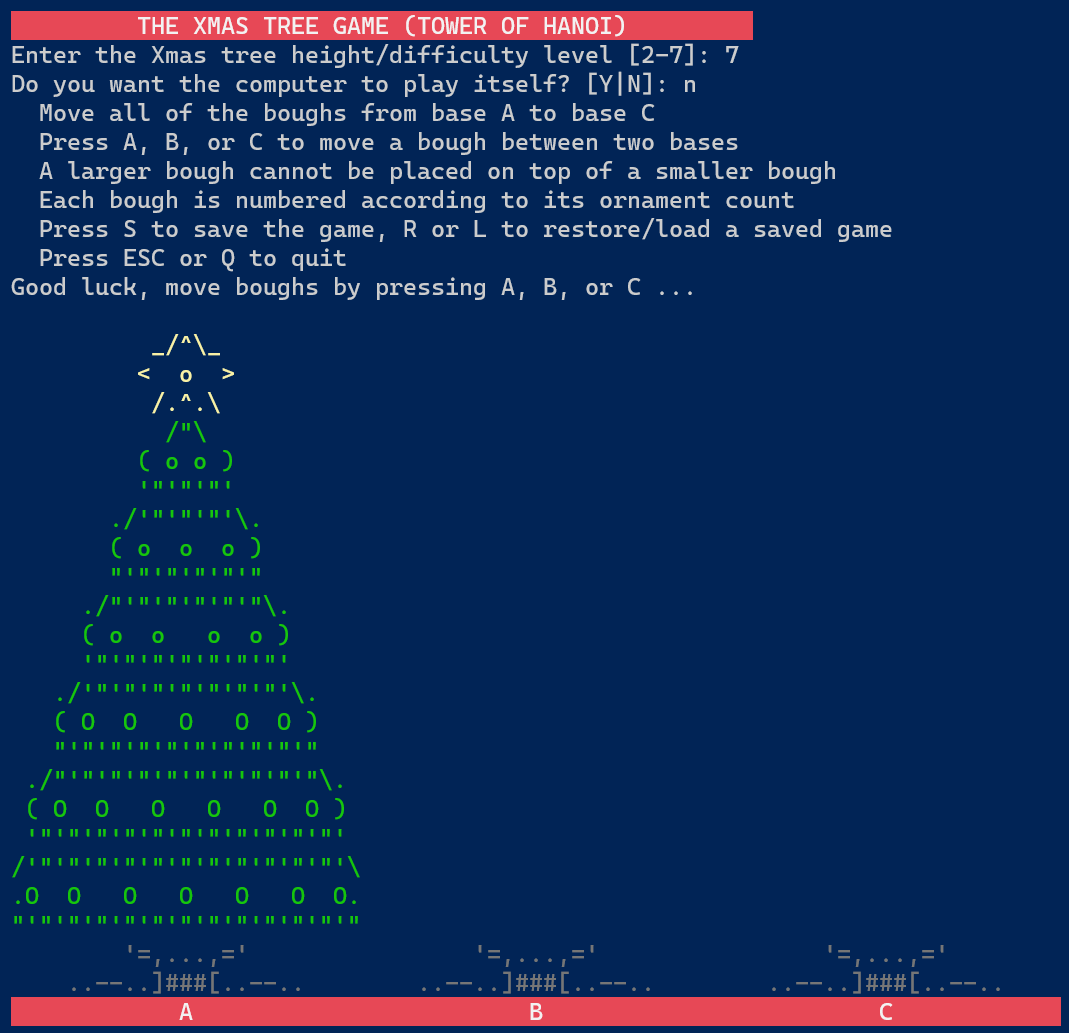
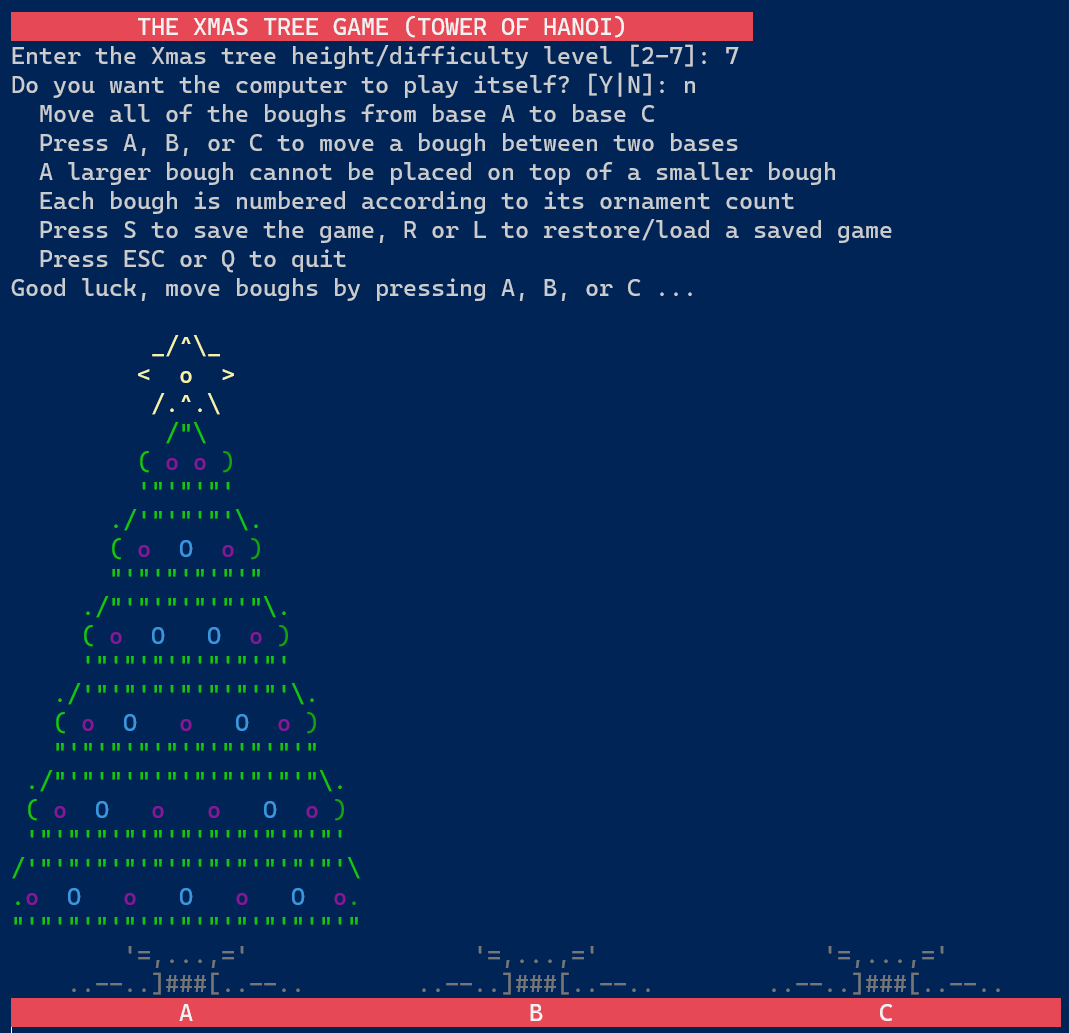
Add files via upload

diff --git a/xmastree_game.py b/xmastree_game.py
@@ -8,7 +8,7 @@ History:
 Instead of disks and rods, this holiday-themed "Tower of Hanoi" game is played
 with boughs and bases.
 
-ANSI Color Escape Codes
+ANSI Color Escape Codes, ESC = \033 (ASCII Hex Value)
 (ex. foreground black '\033[30m' and background white '\033[47m')
 COLOR   FG BG
 Reset   0  0
@@ -71,19 +71,19 @@ ascii = """
          ( o o )
          '\"'\"'\"'
        ./'\"'\"'\"'\\.
-       ( o  o  o )
+       ( o  O  o )
        \"'\"'\"'\"'\"'\"
      ./\"'\"'\"'\"'\"'\"\\.
-     ( o  o   o  o )
+     ( o  O   O  o )
      '\"'\"'\"'\"'\"'\"'\"'
    ./'\"'\"'\"'\"'\"'\"'\"'\\.
-   ( O  O   O   O  O )
+   ( o  O   o   O  o )
    \"'\"'\"'\"'\"'\"'\"'\"'\"'\"
  ./\"'\"'\"'\"'\"'\"'\"'\"'\"'\"\\.
- ( O  O   O   O   O  O )
+ ( o  O   o   o   O  o )
  '\"'\"'\"'\"'\"'\"'\"'\"'\"'\"'\"'
 /'\"'\"'\"'\"'\"'\"'\"'\"'\"'\"'\"'\\
-.O  O   O   O   O   O  O.
+.o  O   o   O   o   O  o.
 \"'\"'\"'\"'\"'\"'\"'\"'\"'\"'\"'\"'\"
         '=,...,='
     ..--..]###[..--..
@@ -135,6 +135,8 @@ def play(height=2, solve=False):
             colorA = '\033[32m'
             colorB = '\033[32m'
             colorC = '\033[32m'
+            small = '\033[35mo\033[32m'
+            large = '\033[36mO\033[32m'
             reset = '\033[0m'
 
             # Set rod A level as disk or spaces
@@ -145,6 +147,9 @@ def play(height=2, solve=False):
                 outA3 = lines[idx + 2]
                 if ((data['A'][x] == 1)):
                     colorA = '\033[33m'  # special top color
+                else:
+                    outA2 = outA2.replace('o', small)  # ornament color
+                    outA2 = outA2.replace('O', large)  # ornament color
             else:
                 outA1 = ' ' * len(lines[0])
                 outA2 = outA1
@@ -158,6 +163,9 @@ def play(height=2, solve=False):
                 outB3 = lines[idx + 2]
                 if ((data['B'][x] == 1)):
                     colorB = '\033[33m'  # special top color
+                else:
+                    outB2 = outB2.replace('o', small)  # ornament color
+                    outB2 = outB2.replace('O', large)  # ornament color
             else:
                 outB1 = ' ' * len(lines[0])
                 outB2 = outB1
@@ -171,6 +179,9 @@ def play(height=2, solve=False):
                 outC3 = lines[idx + 2]
                 if ((data['C'][x] == 1)):
                     colorC = '\033[33m'  # special top color
+                else:
+                    outC2 = outC2.replace('o', small)  # ornament color
+                    outC2 = outC2.replace('O', large)  # ornament color
             else:
                 outC1 = ' ' * len(lines[0])
                 outC2 = outC1
